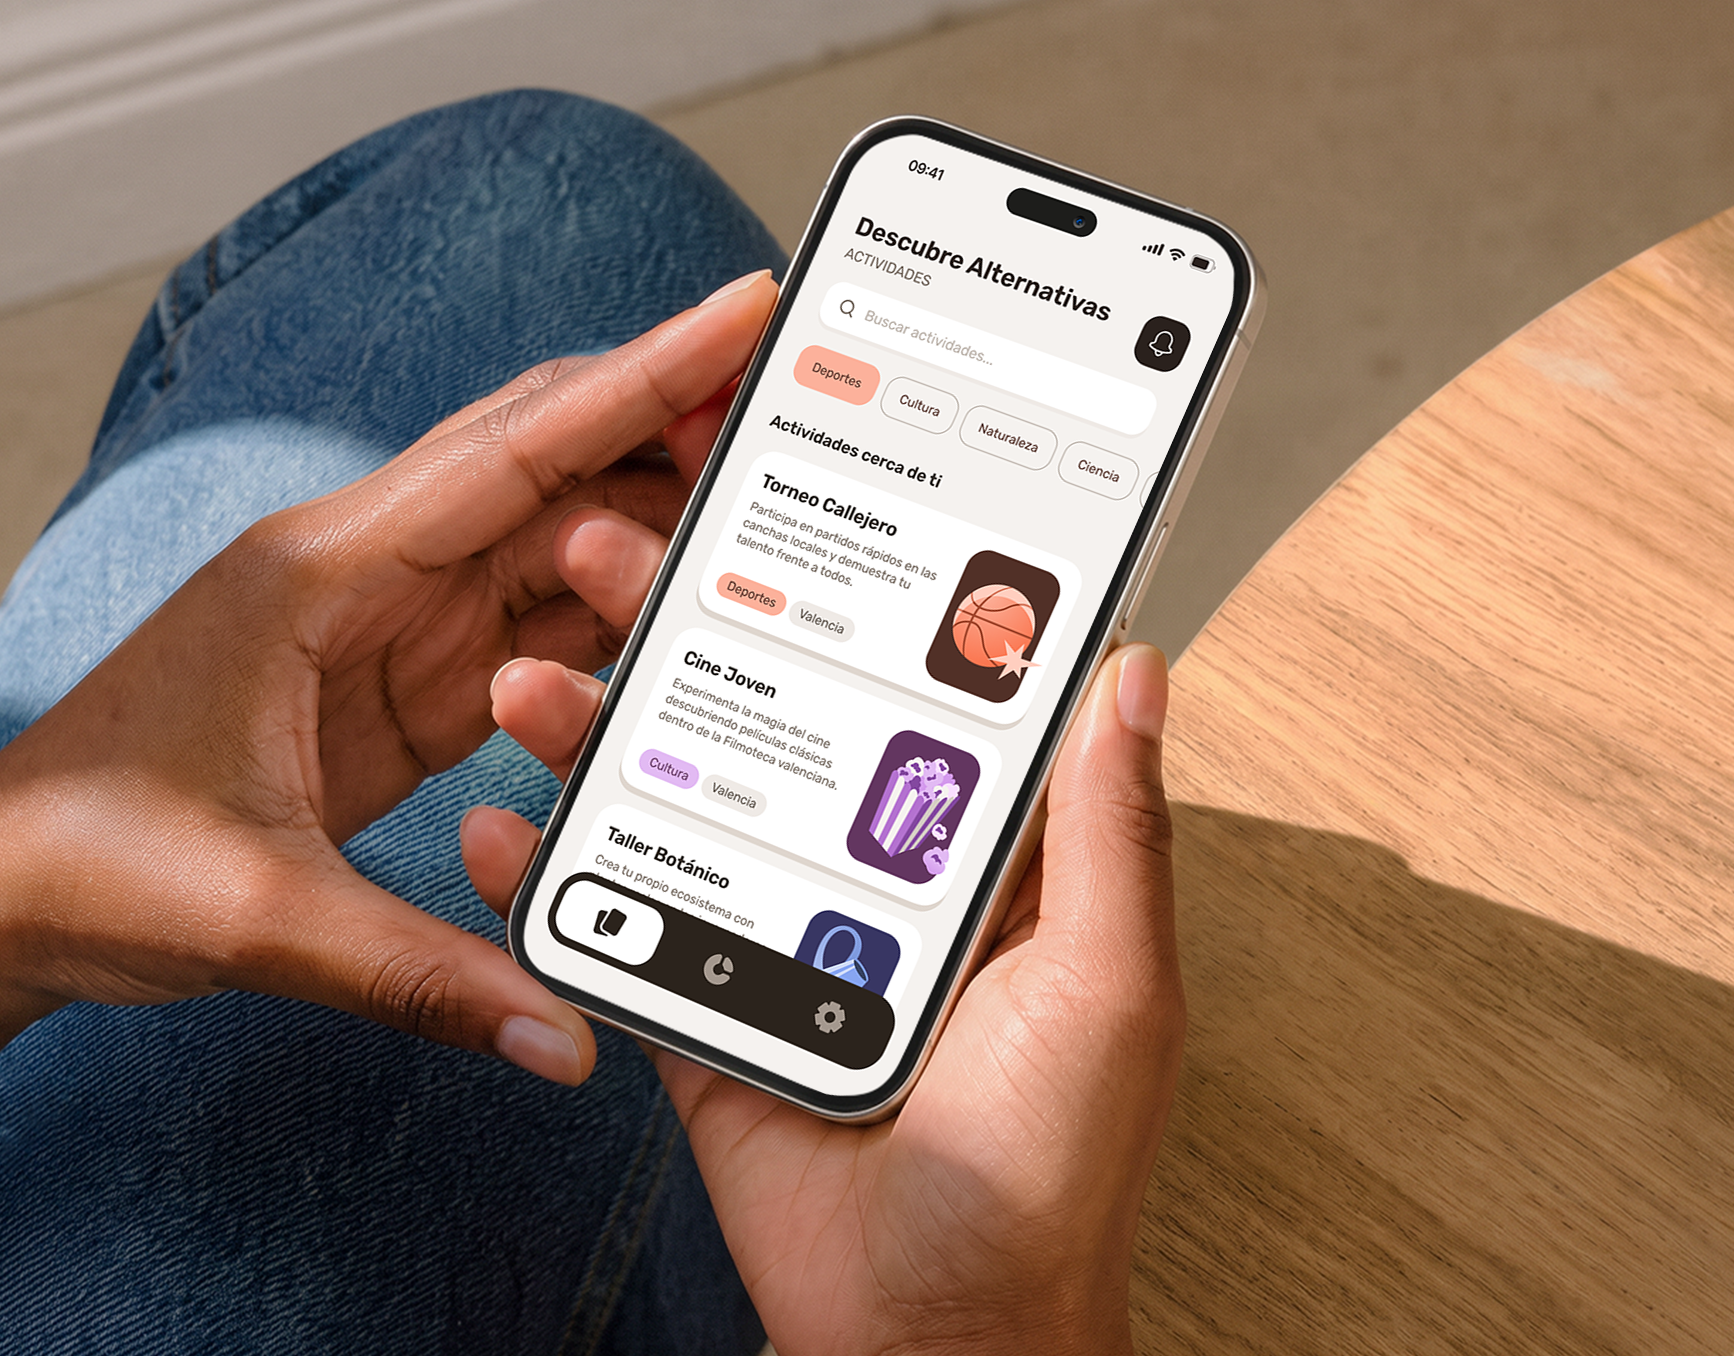
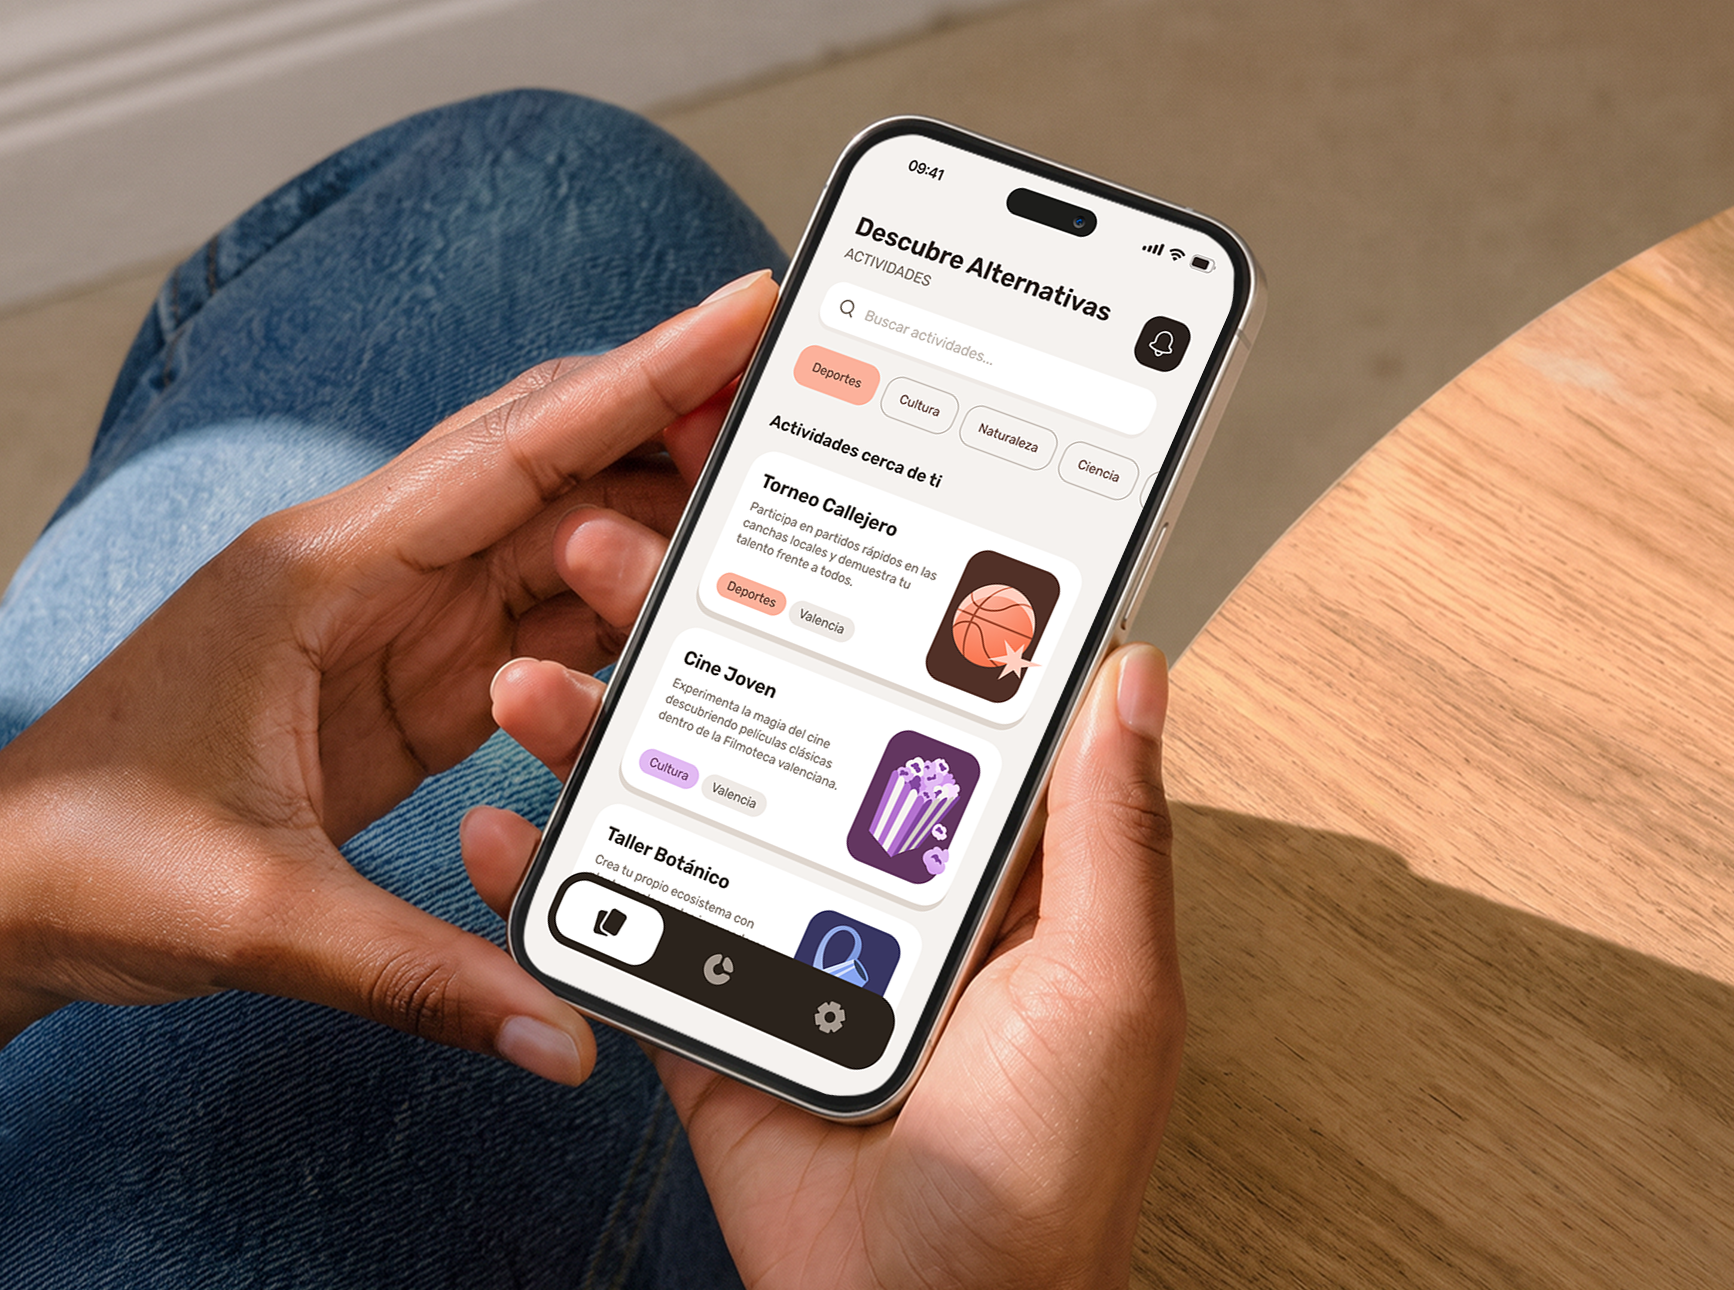
Update

diff --git a/styles.css b/styles.css
@@ -25,115 +25,79 @@ body {
 }
 
 /* Scrollbar minimalista (a la derecha por defecto en el navegador) */
-::-webkit-scrollbar { width: 8px; }
+::-webkit-scrollbar { display: none; }
 ::-webkit-scrollbar-track { background: transparent; }
 ::-webkit-scrollbar-thumb { background: #cccccc; border-radius: 10px; }
 ::-webkit-scrollbar-thumb:hover { background: #999999; }
 
-/* ---------------- HEADER (DOBLE BARRA Y BACKDROP) ---------------- */
-.header-backdrop {
+/* ----------------HEADER---------------- */
+
+/* styles.css */
+.main-nav {
     position: fixed;
-    top: 0; left: 0; right: 0;
-    background-color: var(--bg-color); /* Fondo blanco tras los menús */
-    padding: var(--gap);
-    z-index: 100;
-    transition: transform 0.4s ease;
+    top: var(--gap);
+    left: var(--gap);
+    z-index: 1000;
+    display: inline-flex;
+    align-items: center;
+    gap: 4px;
+    padding: 6px;
+    background-color: rgba(232, 231, 227, 0.85);
+    backdrop-filter: blur(12px);
+    -webkit-backdrop-filter: blur(12px);
+    border-radius: 14px;
+    transition: transform 0.3s ease, opacity 0.3s ease;
 }
 
-.header-backdrop.hidden-scroll {
-        transform: translateY(-150%);
-
+.main-nav.hidden {
+    transform: translateY(calc(-100% - 30px));
+    opacity: 0;
+    pointer-events: none;
 }
 
-.header-grid {
+.nav-btn {
+    text-decoration: none;
+    font-family: 'Inter', sans-serif;
+    font-weight: 500;
+    font-size: 14px;
+    color: #656253;
+    background-color: transparent;
+    padding: 8px 16px;
+    border-radius: 10px;
+    transition: all 0.2s ease;
+    display: flex;
+    align-items: center;
+    justify-content: center;
+}
+
+.nav-btn.icon-btn {
+    padding: 8px 12px;
+}
+
+.nav-btn:not(.active):hover {
+    color: #32302A;
+    background-color: rgba(255, 255, 255, 0.4);
+}
+
+.nav-btn.active {
+    background-color: #FFFFFF;
+    color: #32302A;
+    box-shadow: 0 1px 3px rgba(0,0,0,0.04);
+}
+
+.grid-container {
     display: grid;
     grid-template-columns: repeat(16, 1fr);
     gap: var(--gap);
-    height: 64px;
+    padding: calc(64px + var(--gap)) 12px var(--gap) var(--gap);
+    width: 100%;
 }
 
-/* Cabecera Izquierda */
-.header-left {
-    grid-column: span 4;
-    background-color: var(--header-bg);
-    border-radius: var(--border-radius);
-    display: flex;
-    align-items: center;
-    padding: 8px;
+@media (max-width: 600px) {
+    .grid-container {
+        padding: calc(80px + var(--gap)) 12px var(--gap) var(--gap); 
+    }
 }
-
-/* Cabecera Derecha */
-.header-right {
-    grid-column: span 12;
-    background-color: var(--header-bg);
-    border-radius: var(--border-radius);
-    display: flex;
-    align-items: center;
-    justify-content: space-between;
-    padding: 8px;
-}
-
-.header-title {
-    padding-left: 32px;
-    font-size: 20px;
-}
-
-/* Botones cuadrados blancos del header */
-.icon-btn-square {
-    width: 48px;
-    height: 48px;
-    background-color: #FFFFFF;
-    border-radius: 10px;
-    border: none;
-    cursor: pointer;
-    color: var(--text-color);
-    display: flex;
-    align-items: center;
-    justify-content: center;
-    transition: background-color 0.3s, transform 0.2s;
-}
-
-.icon-btn-square:hover {
-    background-color: #F8F8F8;
-    transform: scale(0.96);
-}
-
-.hidden { display: none; }
-
-/* ---------------- MENU OVERLAY ---------------- */
-.menu-overlay {
-    position: fixed;
-    top: var(--gap); left: var(--gap); right: var(--gap); bottom: var(--gap);
-    background-color: var(--header-bg);
-    border-radius: var(--border-radius);
-    z-index: 90;
-    display: flex;
-    align-items: center;
-    justify-content: center;
-    opacity: 0;
-    pointer-events: none;
-    transition: opacity 0.4s ease;
-}
-
-.menu-overlay.active {
-    opacity: 1;
-    pointer-events: auto;
-}
-
-.menu-nav {
-    display: flex;
-    flex-direction: column;
-    gap: 32px;
-    text-align: center;
-}
-
-.menu-nav a {
-    text-decoration: none;
-    color: var(--text-color);
-    font-size: 32px;
-    transition: opacity 0.3s;
-}
-.menu-nav a:hover { opacity: 0.6; }
 
 /* ---------------- GRID PRINCIPAL ---------------- */
 /* Se elimina max-width, ahora ocupa toda la pantalla manteniendo el padding */
@@ -141,7 +105,7 @@ body {
     display: grid;
     grid-template-columns: repeat(16, 1fr);
     gap: var(--gap);
-    padding: calc(64px + var(--gap) * 3) var(--gap) var(--gap) var(--gap);
+    padding: calc(64px + var(--gap)) var(--gap) var(--gap) var(--gap);
     width: 100%;
 }
 
@@ -150,7 +114,7 @@ body {
     grid-column: span 4;
     position: sticky;
     /* Baja para no tapar el header. Si el body tiene clase header-closed, sube a 24px */
-    top: calc(64px + var(--gap) * 3);
+    top: calc(64px + var(--gap));
     align-self: start;
     display: flex;
     flex-direction: column;

diff --git a/proyectos.html b/proyectos.html
@@ -34,14 +34,16 @@
     </div>
 
     <!-- Menú Desplegable Móvil -->
-    <div class="menu-overlay" id="menu-overlay">
-        <nav class="menu-nav">
-            <a href="index.html">Inicio</a>
-            <a href="proyectos.html">Proyectos</a>
-            <a href="sobre-mi.html">Sobre mí</a>
-            <a href="otros.html">Otros</a>
-        </nav>
-    </div>
+    <nav class="main-nav" id="main-nav">
+    <a href="index.html" class="nav-btn icon-btn active" aria-label="Inicio">
+        <svg width="18" height="18" viewBox="0 0 24 24" fill="currentColor">
+            <path d="M4 18V6h4.5l7 9.5V6H20v12h-4.5L8.5 8.5V18H4z"/>
+        </svg>
+    </a>
+    <a href="#" class="nav-btn active">Experiencia</a>
+    <a href="proyectos.html" class="nav-btn">Proyectos</a>
+    <a href="#" class="nav-btn active">Más</a>
+</nav>
 
     <!-- Contenedor Principal (Sin límite de ancho) -->
     <main class="grid-container">
@@ -163,6 +165,33 @@
                 </div>
                 <div class="block-col col-6">
                     <img src="images/Slider.png" alt="Imagen 1">
+                </div>
+            </div>
+
+            <div class="block-row row-480" id="seccion-2">
+                <div class="block-col col-6">
+                    <img src="images/Iconos simples 2.png" alt="Imagen 1">
+                </div>
+                <div class="block-col col-6">
+                    <img src="images/Portada.png" alt="Imagen 1">
+                </div>
+            </div>
+
+            <div class="block-row row-600" id="seccion-2">
+                <div class="block-col col-4">
+                    <img src="images/ilustraciones.gif" alt="Imagen 1">
+                </div>
+                <div class="block-col col-8">
+                    <img src="images/Wireframes.png" alt="Imagen 1">
+                </div>
+            </div>
+
+            <div class="block-row row-600" id="seccion-2">
+                <div class="block-col col-8">
+                    <img src="images/ilustraciones.gif" alt="Imagen 1">
+                </div>
+                <div class="block-col col-4">
+                    <img src="images/Datos.png" alt="Imagen 1">
                 </div>
             </div>
 

diff --git a/script.js b/script.js
@@ -15,23 +15,28 @@ document.addEventListener('DOMContentLoaded', () => {
     }
 
     // 2. Comportamiento del Header al hacer Scroll
-    /* Reemplaza el bloque 2 en script.js por este código optimizado */
-let lastScrollTop = 0;
-const headerBackdrop = document.getElementById('header-backdrop');
+    // script.js
+document.addEventListener('DOMContentLoaded', () => {
+    const nav = document.getElementById('main-nav');
+    let lastScroll = 0;
 
-window.addEventListener('scroll', () => {
-    let scrollTop = window.scrollY || document.documentElement.scrollTop;
-    
-    if (scrollTop > lastScrollTop && scrollTop > 50) {
-        headerBackdrop.classList.add('hidden-scroll');
-        document.body.classList.add('header-closed');
-    } else if (scrollTop < lastScrollTop) {
-        headerBackdrop.classList.remove('hidden-scroll');
-        document.body.classList.remove('header-closed');
-    }
-    
-    lastScrollTop = Math.max(0, scrollTop);
-}, { passive: true });
+    window.addEventListener('scroll', () => {
+        const currentScroll = window.pageYOffset;
+        
+        if (currentScroll <= 0) {
+            nav.classList.remove('hidden');
+            return;
+        }
+
+        if (currentScroll > lastScroll && !nav.classList.contains('hidden')) {
+            nav.classList.add('hidden');
+        } else if (currentScroll < lastScroll && nav.classList.contains('hidden')) {
+            nav.classList.remove('hidden');
+        }
+        
+        lastScroll = currentScroll;
+    });
+});
 
     // 3. Lógica del Acordeón y Click en Botones
     const accordionItems = document.querySelectorAll('.accordion-item');
